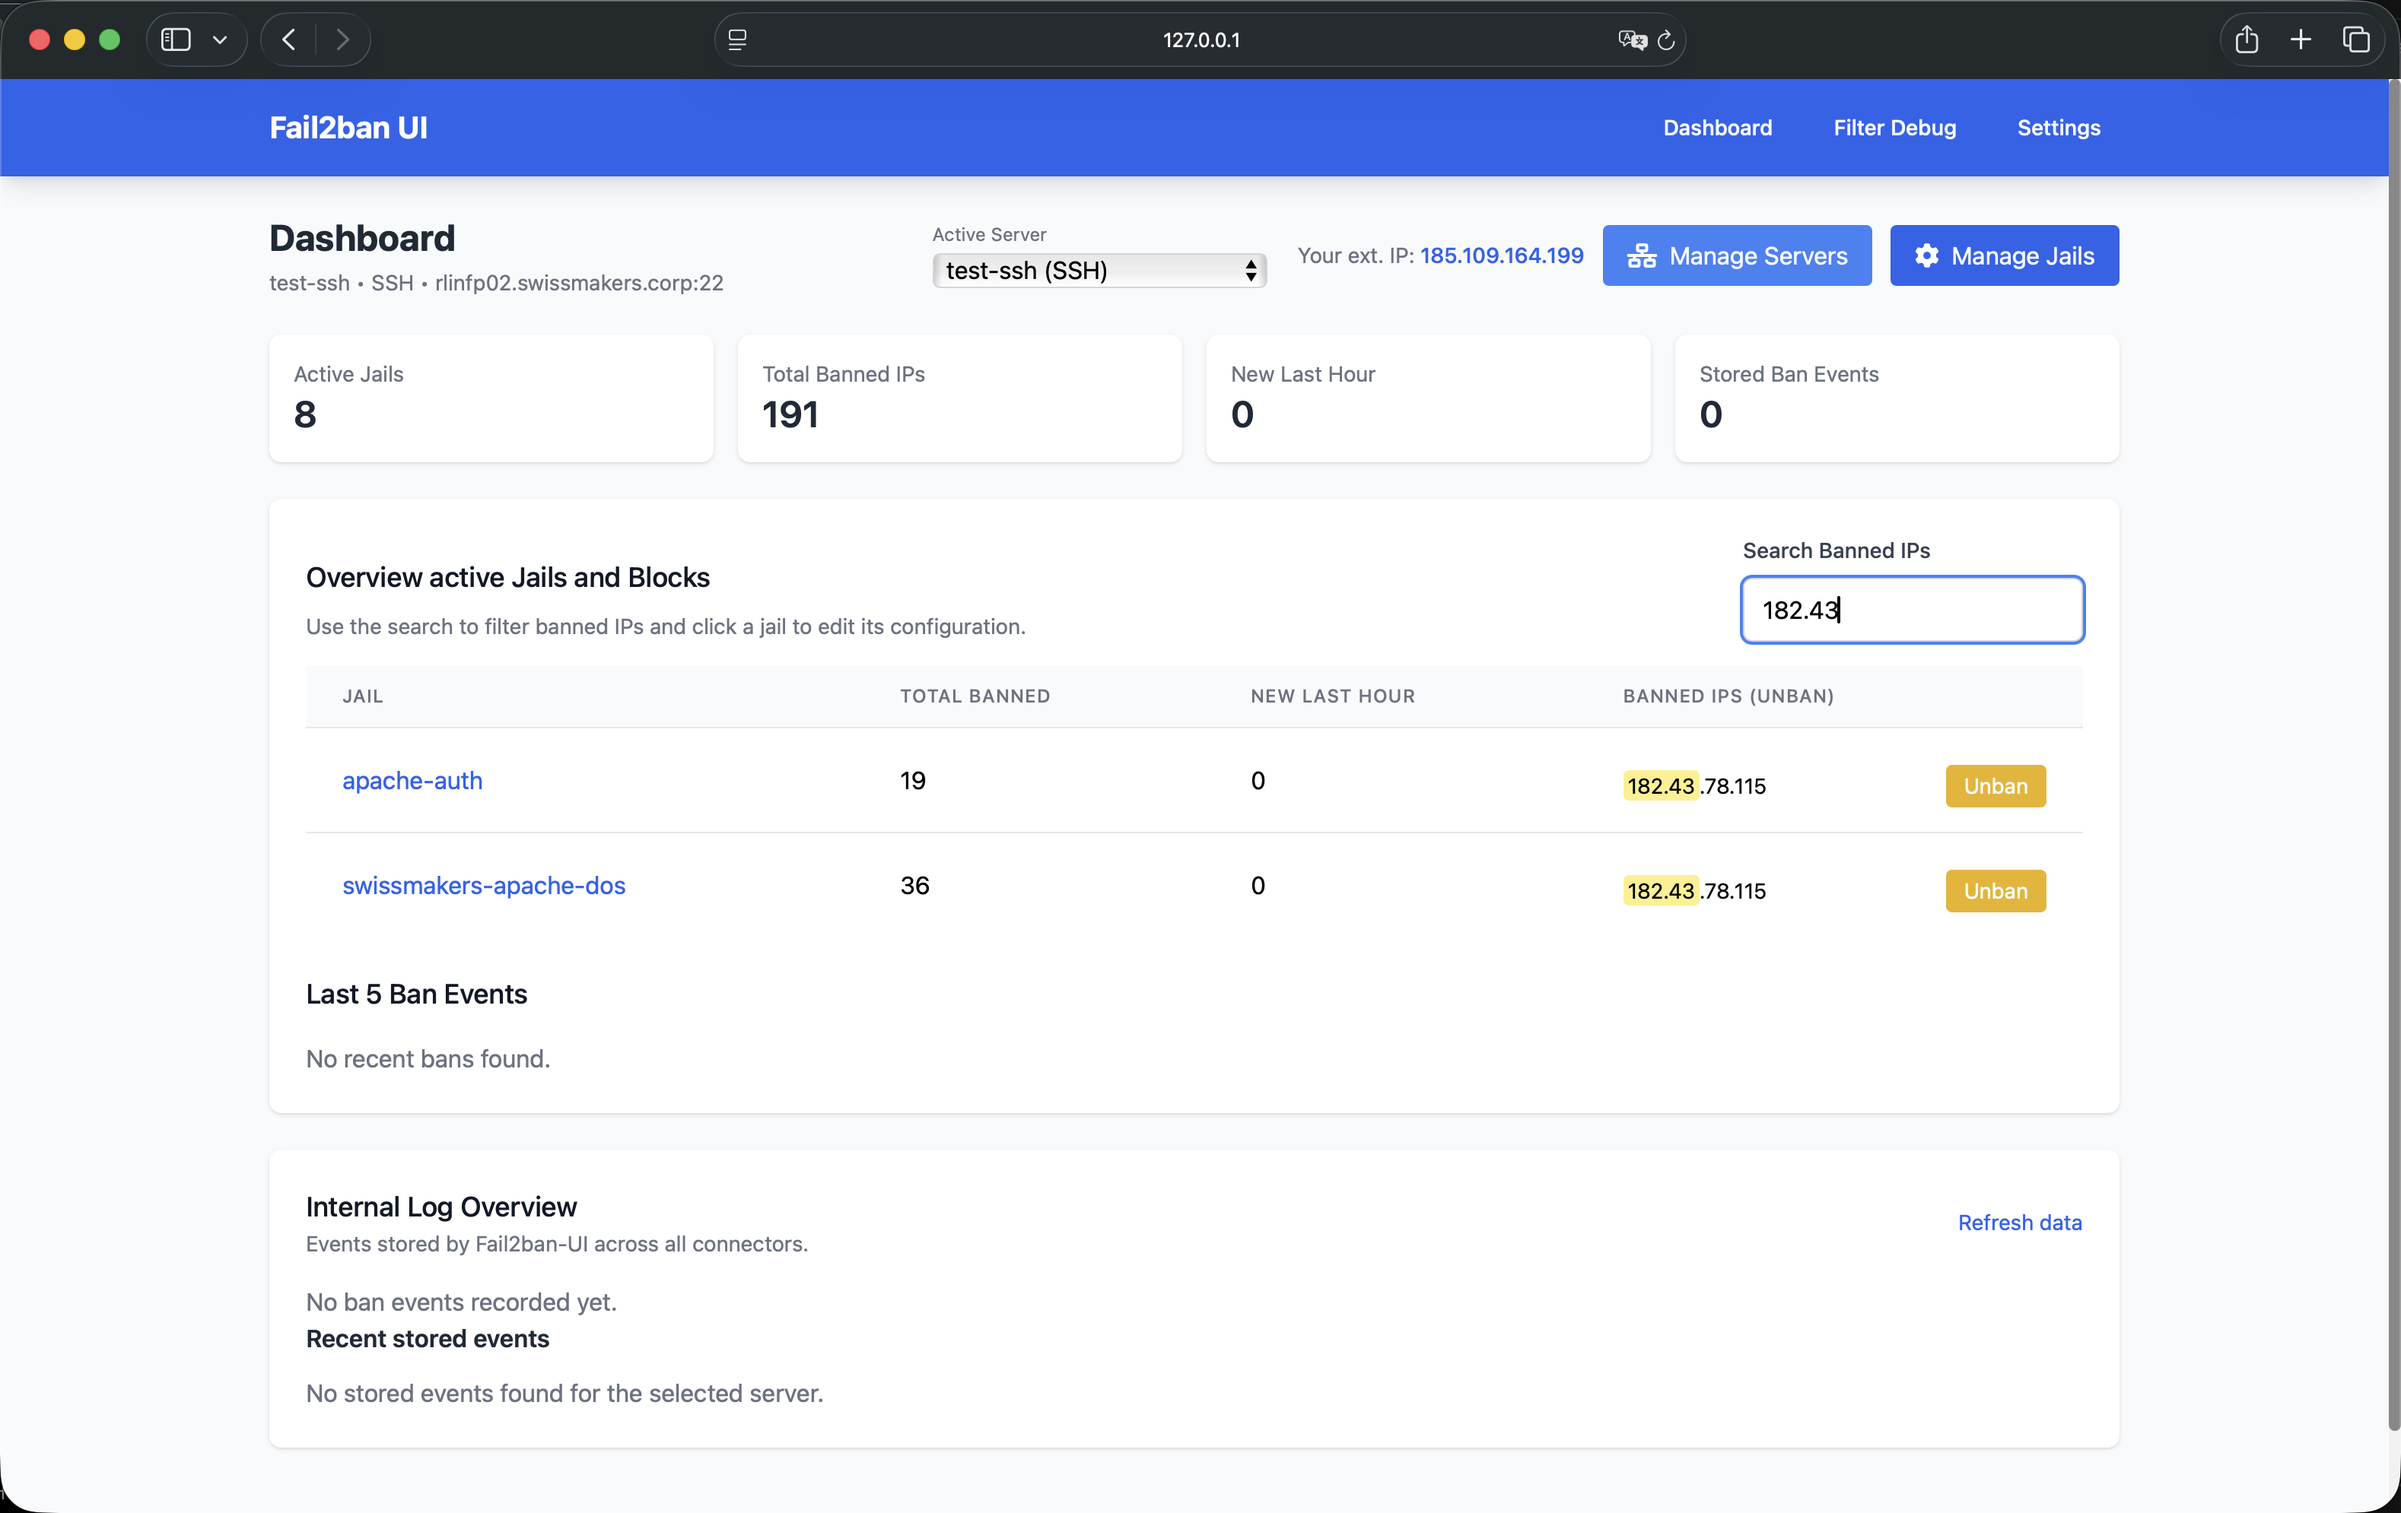
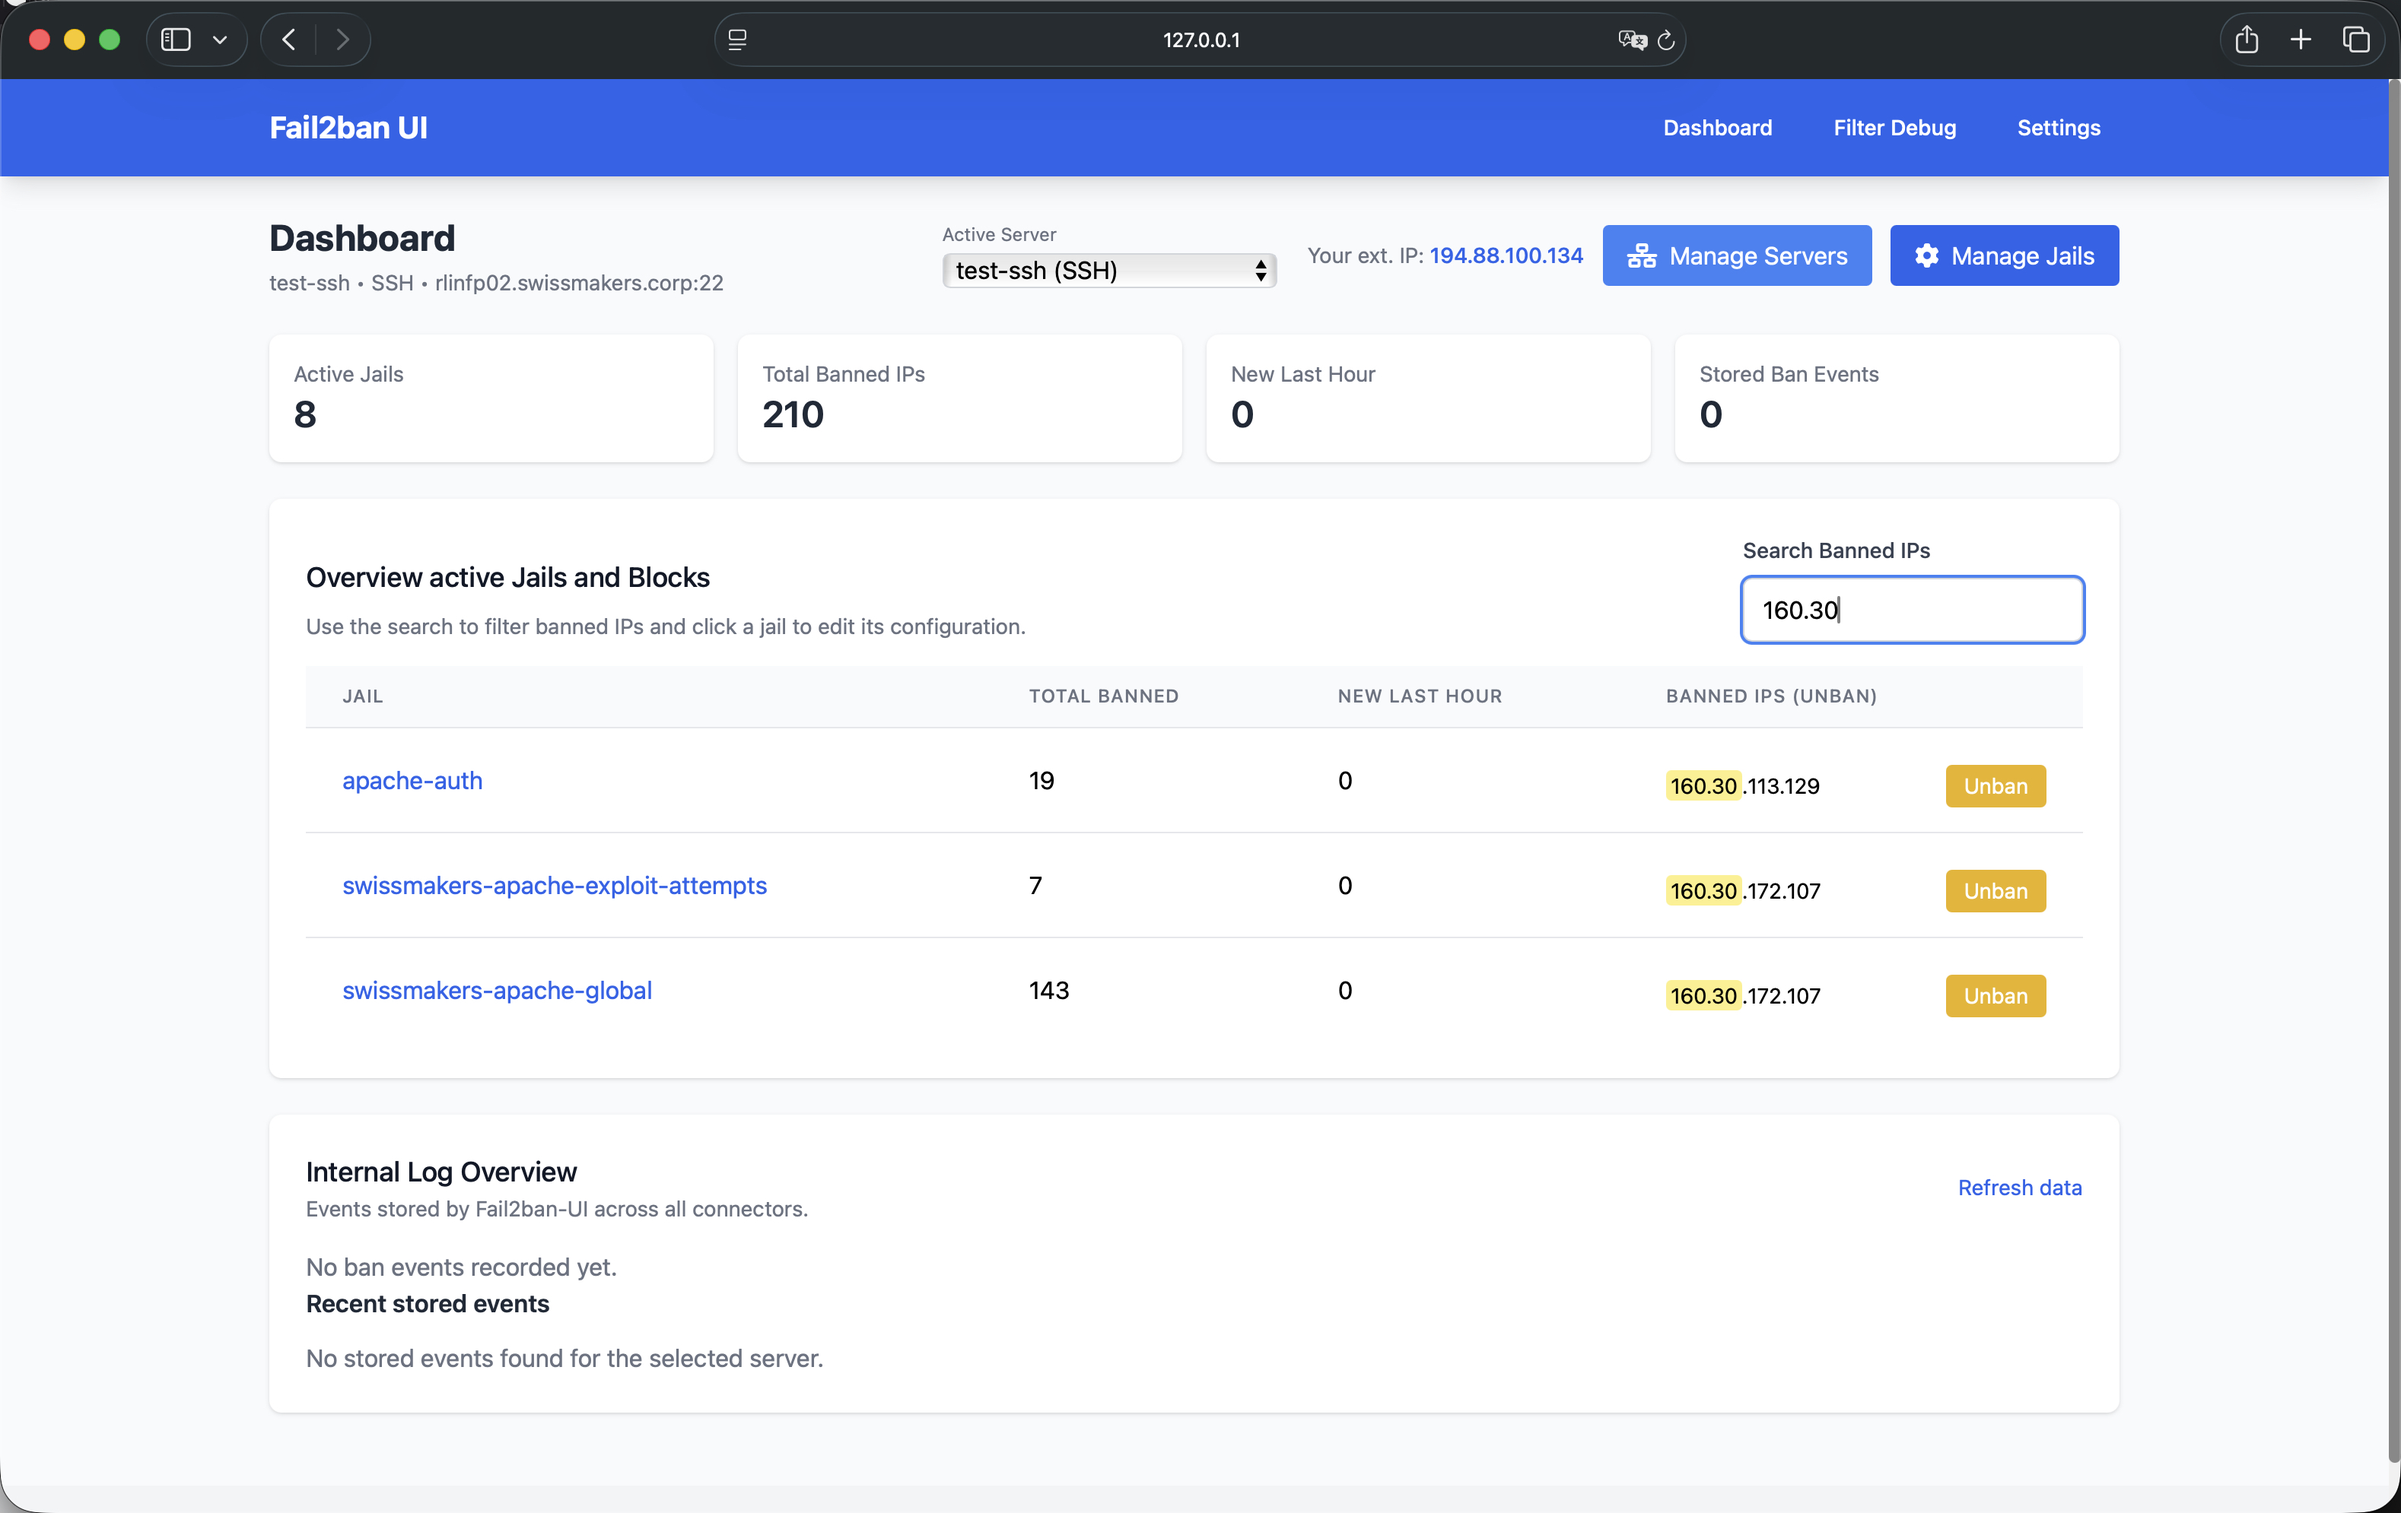
Remove old - las 5 bans - from the socked query

diff --git a/pkg/web/templates/index.html b/pkg/web/templates/index.html
@@ -1190,7 +1190,14 @@
       if (isNaN(date.getTime())) {
         return value;
       }
-      return date.toLocaleString();
+      // Format as "2025.11.12, 21:21:52"
+      var year = date.getFullYear();
+      var month = String(date.getMonth() + 1).padStart(2, '0');
+      var day = String(date.getDate()).padStart(2, '0');
+      var hours = String(date.getHours()).padStart(2, '0');
+      var minutes = String(date.getMinutes()).padStart(2, '0');
+      var seconds = String(date.getSeconds()).padStart(2, '0');
+      return year + '.' + month + '.' + day + ', ' + hours + ':' + minutes + ':' + seconds;
     }
 
     function totalStoredBans() {
@@ -1313,38 +1320,6 @@
         });
 
         html += '    </tbody></table>';
-        html += '</div>';
-      }
-
-      if (summary.lastBans) {
-        html += '<div class="mt-6">';
-        html += '  <h3 class="text-lg font-medium text-gray-900 mb-4" data-i18n="dashboard.last_bans">Last 5 Ban Events</h3>';
-        if (!summary.lastBans.length) {
-          html += '<p class="text-gray-500" data-i18n="dashboard.no_recent_bans">No recent bans found.</p>';
-        } else {
-          html += ''
-            + '<div class="overflow-x-auto">'
-            + '  <table class="min-w-full divide-y divide-gray-200 text-sm sm:text-base">'
-            + '    <thead class="bg-gray-50">'
-            + '      <tr>'
-            + '        <th class="px-2 py-1 sm:px-6 sm:py-3 text-left text-xs font-medium text-gray-500 uppercase tracking-wider" data-i18n="dashboard.table.time">Time</th>'
-            + '        <th class="hidden sm:table-cell px-2 py-1 sm:px-6 sm:py-3 text-left text-xs font-medium text-gray-500 uppercase tracking-wider" data-i18n="dashboard.table.jail">Jail</th>'
-            + '        <th class="hidden sm:table-cell px-2 py-1 sm:px-6 sm:py-3 text-left text-xs font-medium text-gray-500 uppercase tracking-wider" data-i18n="dashboard.table.ip">IP</th>'
-            + '        <th class="px-2 py-1 sm:px-6 sm:py-3 text-left text-xs font-medium text-gray-500 uppercase tracking-wider" data-i18n="dashboard.table.log_line">Details</th>'
-            + '      </tr>'
-            + '    </thead>'
-            + '    <tbody class="bg-white divide-y divide-gray-200">';
-          summary.lastBans.forEach(function(event) {
-            html += ''
-              + '<tr class="hover:bg-gray-50">'
-              + '  <td class="px-2 py-1 sm:px-6 sm:py-4 whitespace-normal break-words">' + escapeHtml(event.Time || '') + '</td>'
-              + '  <td class="hidden sm:table-cell px-2 py-1 sm:px-6 sm:py-4 whitespace-normal break-words">' + escapeHtml(event.Jail || '') + '</td>'
-              + '  <td class="hidden sm:table-cell px-2 py-1 sm:px-6 sm:py-4 whitespace-normal break-words">' + escapeHtml(event.IP || '') + '</td>'
-              + '  <td class="px-2 py-1 sm:px-6 sm:py-4 whitespace-normal break-words">' + escapeHtml(event.LogLine || '') + '</td>'
-              + '</tr>';
-          });
-          html += '    </tbody></table></div>';
-        }
         html += '</div>';
       }
 

diff --git a/pkg/web/templates/index_bootstrap.html b/pkg/web/templates/index_bootstrap.html
@@ -719,37 +719,6 @@
         html += '</div></fieldset>';
       }
 
-      // Last 5 bans
-      html += '<fieldset class="border p-3 rounded mb-4">';
-      html += '  <legend class="w-auto px-2" data-i18n="dashboard.last_bans">Last 5 Ban Events</legend>';
-      if (!data.lastBans || data.lastBans.length === 0) {
-        html += '<p data-i18n="dashboard.no_recent_bans">No recent bans found.</p>';
-      } else {
-        html += ''
-          + '<div class="table-responsive">'
-          + '<table class="table table-bordered">'
-          + '  <thead>'
-          + '    <tr>'
-          + '      <th data-i18n="dashboard.table.time">Time</th>'
-          + '      <th data-i18n="dashboard.table.jail">Jail</th>'
-          + '      <th data-i18n="dashboard.table.ip">IP</th>'
-          + '      <th data-i18n="dashboard.table.log_line">Log Line</th>'
-          + '    </tr>'
-          + '  </thead>'
-          + '  <tbody></div>';
-
-        data.lastBans.forEach(function(e) {
-          html += ''
-            + '<tr>'
-            + '  <td>' + e.Time + '</td>'
-            + '  <td>' + e.Jail + '</td>'
-            + '  <td>' + e.IP + '</td>'
-            + '  <td>' + e.LogLine + '</td>'
-            + '</tr>';
-        });
-
-        html += '</tbody></table></fieldset>';
-      }
 
       document.getElementById('dashboard').innerHTML = html;
     }

diff --git a/pkg/web/handlers.go b/pkg/web/handlers.go
@@ -43,8 +43,7 @@ import (
 
 // SummaryResponse is what we return from /api/summary
 type SummaryResponse struct {
-	Jails    []fail2ban.JailInfo `json:"jails"`
-	LastBans []fail2ban.BanEvent `json:"lastBans"`
+	Jails []fail2ban.JailInfo `json:"jails"`
 }
 
 func resolveConnector(c *gin.Context) (fail2ban.Connector, error) {
@@ -89,7 +88,6 @@ func resolveServerForNotification(serverID, hostname string) (config.Fail2banSer
 
 // SummaryHandler returns a JSON summary of all jails, including
 // number of banned IPs, how many are new in the last hour, etc.
-// and the last 5 overall ban events from the log.
 func SummaryHandler(c *gin.Context) {
 	conn, err := resolveConnector(c)
 	if err != nil {
@@ -103,15 +101,8 @@ func SummaryHandler(c *gin.Context) {
 		return
 	}
 
-	lastBans, err := conn.FetchBanEvents(c.Request.Context(), 5)
-	if err != nil {
-		log.Printf("warning: failed to fetch ban events for summary: %v", err)
-		lastBans = []fail2ban.BanEvent{}
-	}
-
 	resp := SummaryResponse{
-		Jails:    jailInfos,
-		LastBans: lastBans,
+		Jails: jailInfos,
 	}
 	c.JSON(http.StatusOK, resp)
 }
@@ -502,16 +493,6 @@ func shouldAlertForCountry(country string, alertCountries []string) bool {
 		}
 	}
 	return false
-}
-
-func sortByTimeDesc(events []fail2ban.BanEvent) {
-	for i := 0; i < len(events); i++ {
-		for j := i + 1; j < len(events); j++ {
-			if events[j].Time.After(events[i].Time) {
-				events[i], events[j] = events[j], events[i]
-			}
-		}
-	}
 }
 
 // IndexHandler serves the HTML page
